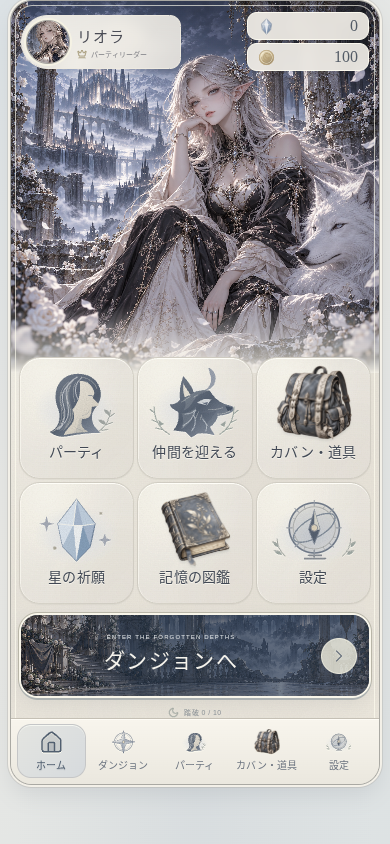
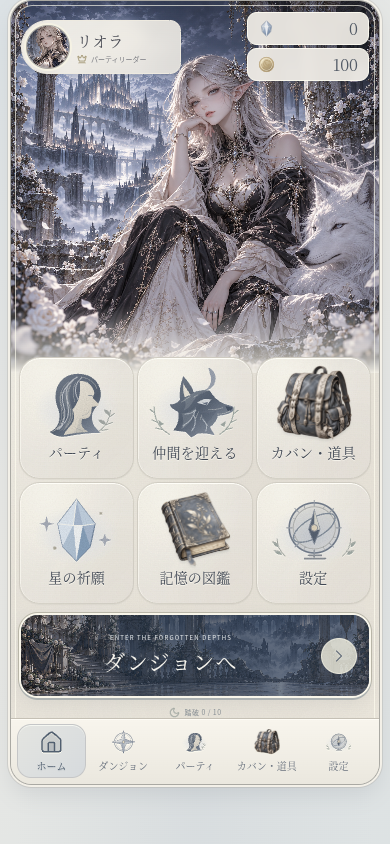
feat: align portrait framing and typography with reference

diff --git a/src/ui/enemy-carousel.css b/src/ui/enemy-carousel.css
@@ -34,7 +34,7 @@
 .enemy-orbit-actor { position: absolute; inset: 0; }
 .enemy-orbit-art { position: absolute; left: -10%; bottom: -3px; width: 120%; height: calc(100% + 12px); max-width: none; object-fit: contain; object-position: center bottom; filter: drop-shadow(0 8px 8px #15263866); -webkit-user-drag: none; }
 /* Taller portrait artwork can extend below the frame like the reference; landscape creatures keep their full silhouette. */
-.enemy-carousel:not(.enemy-carousel--multiple) .enemy-orbit-art--portrait { left: -45%; top: -45px; bottom: auto; width: 190%; height: auto; object-position: center top; }
+.enemy-carousel:not(.enemy-carousel--multiple) .enemy-orbit-art--portrait { left: -67%; top: -60px; bottom: auto; width: 220%; height: auto; object-position: center top; }
 .enemy-carousel--multiple .enemy-orbit { top: 44px; bottom: 23px; }
 .enemy-carousel--multiple .enemy-orbit-art { bottom: 0; height: 100%; }
 .enemy-carousel-controls { position: absolute; z-index: 30; inset: auto 16px 6px; display: flex; align-items: center; justify-content: space-between; pointer-events: none; }
@@ -55,6 +55,7 @@
   .enemy-carousel-position span { font-size: 7px; }
 }
 @media (max-width: 360px) {
+  .enemy-carousel:not(.enemy-carousel--multiple) .enemy-orbit-art--portrait { top: -35px; }
   .enemy-carousel-name > strong { font-size: 15px; }
   .enemy-carousel-controls { inset-inline: 8px; }
   .enemy-carousel-position span { display: none; }

diff --git a/src/ui/tokens.css b/src/ui/tokens.css
@@ -1,6 +1,6 @@
 :root {
-  --font-body: -apple-system, BlinkMacSystemFont, 'Hiragino Kaku Gothic ProN', 'Yu Gothic', 'Meiryo', sans-serif;
-  --font-display: 'Iowan Old Style', 'Palatino Linotype', 'Hiragino Mincho ProN', 'Yu Mincho', Georgia, serif;
+  --font-body: -apple-system, BlinkMacSystemFont, 'Hiragino Kaku Gothic ProN', 'Yu Gothic', 'Meiryo', 'Noto Sans CJK JP', 'Noto Sans JP', sans-serif;
+  --font-display: 'Iowan Old Style', 'Palatino Linotype', 'Hiragino Mincho ProN', 'Yu Mincho', Georgia, 'Noto Serif CJK JP', 'Noto Serif JP', serif;
   --page: #e9e9e5;
   --paper: #f3f1e9;
   --paper-bright: #fcfaf3;

diff --git a/src/ui/index.tsx b/src/ui/index.tsx
@@ -11,6 +11,7 @@ import './battle.css';
 import './enemy-carousel.css';
 import './game-frame.css';
 import './materials.css';
+import './typography.css';
 export { EnemyCarousel } from './EnemyCarousel';
 export { MenuEmblem } from './MenuEmblem';
 export { SceneEffects } from './SceneEffects';

diff --git a/src/ui/typography.css b/src/ui/typography.css
@@ -1,0 +1,6 @@
+/* Stable engraved figures prevent counters from shifting as their values change. */
+:root { font-variant-numeric: lining-nums tabular-nums; }
+
+@media (max-width: 760px) {
+  .battle-layout .round-label { font-size: 9px; }
+}

diff --git a/docs/implementation.md b/docs/implementation.md
@@ -126,3 +126,6 @@ PortraitArtはホームのリーダー顔とパーティの画像描画を共通
 
 
 立ち絵と城背景の明暗を分離し、背景の白い柱・窓が銀髪や顔と競合しないよう調整します。控え敵は奥行きに応じた陰影・低彩度と軽いぼかしで後方に置き、過度な透過による残像感を抑えます。前景の明度・彩度・不透明度は元のままです。回転は引き続き表示だけの状態で、敵数・HP・行動順やセーブを変更しません。メニューの女性・狼の紋章は内部の陰影と細彫りを調整し、外形や飾り・文章を増やしません。
+
+
+題字・キャラクター名・操作ラベルの共通フォントには、既存の明朝に加えてNoto Serif CJK JP／Noto Serif JPを代替候補として含めます。端末内のフォントを使い、外部フォント配信は追加しません。数値は共通設定で等幅・ライニング数字に揃え、ROUNDの補助数字も小画面で9pxを確保します。単体の縦長立ち絵は上半身中心の220%へ寄せ、360px以下では位置を下げて、既存の3種すべてで目・口がHP帯に入らないことを確認します。
